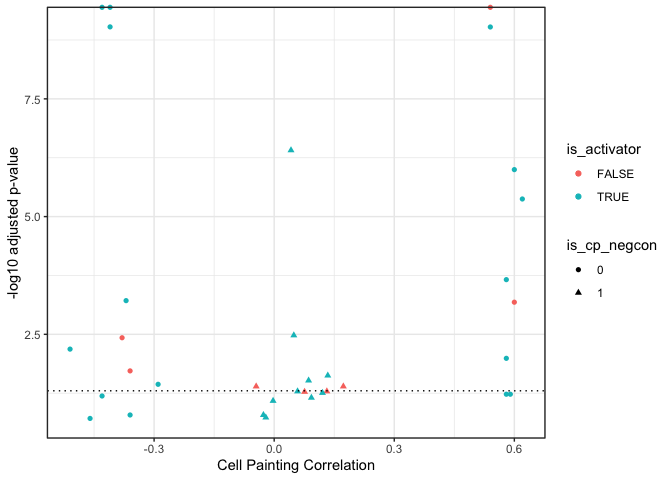
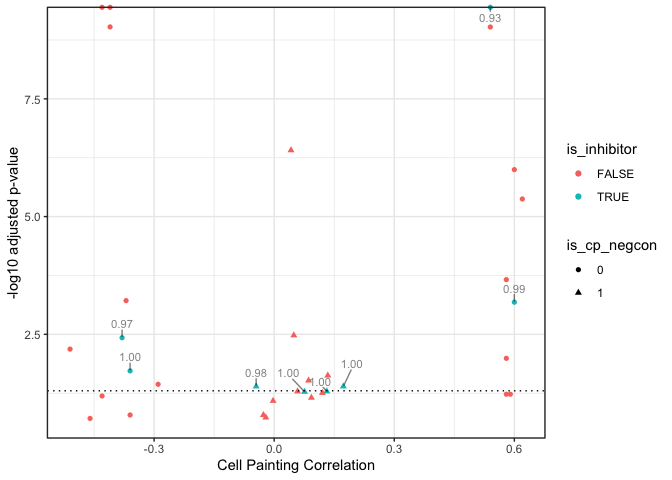
label

diff --git a/p38a/knit_notebooks/1.inspect-p38a-screen.md b/p38a/knit_notebooks/1.inspect-p38a-screen.md
@@ -97,21 +97,32 @@ Create new variables
 ``` r
 screen_data <- 
   screen_data %>% 
-  mutate(is_activator = medTLR5 > 1)  %>%
+  mutate(is_inhibitor = medTLR5 < 1)  %>%
   mutate(is_cp_negcon = as.factor(isrndm))
 ```
 
 Plot KS-test adjusted p-value vs Cell Painting correlation
 
 ``` r
-p <- 
+p <-
   screen_data %>%
-  ggplot(aes(Broad, -log10(AdjP), shape = is_cp_negcon, color = is_activator)) + 
-  geom_point() + 
+  ggplot(aes(Broad, -log10(AdjP), shape = is_cp_negcon, color = is_inhibitor)) +
+  geom_point() +
+  ggrepel::geom_text_repel(
+    data = screen_data %>% filter(is_inhibitor),
+    aes(label = sprintf("%0.2f", medTLR5)),
+    max.overlaps = Inf,
+    min.segment.length = unit(0, 'lines'),
+    nudge_y = .3,
+    color = "black",
+    alpha = 0.5,
+    size = 3
+  ) +
+  
   geom_hline(yintercept = -log10(0.05), linetype = "dotted") +
   coord_cartesian(clip = "off") +
   xlab("Cell Painting Correlation") +
-  ylab("-log10 adjusted p-value") + 
+  ylab("-log10 adjusted p-value") +
   theme_bw()
 
 print(p)
@@ -128,8 +139,11 @@ Plot ratio of medians of compounds:DMSO vs Cell Painting correlation
 ``` r
 p <- 
   screen_data %>%
-  ggplot(aes(Broad, medTLR5, shape = is_cp_negcon, color = is_activator)) + 
+  ggplot(aes(Broad, medTLR5, shape = is_cp_negcon, color = is_inhibitor)) + 
   geom_point() + 
+  geom_text(
+    aes(label = sprintf("%0.02f", medTLR5)), data = screen_data %>% filter(is_inhibitor)
+  ) +
   coord_cartesian(clip = "off") +
   xlab("Cell Painting Correlation") +
   ylab("Ratio of medians") + 
